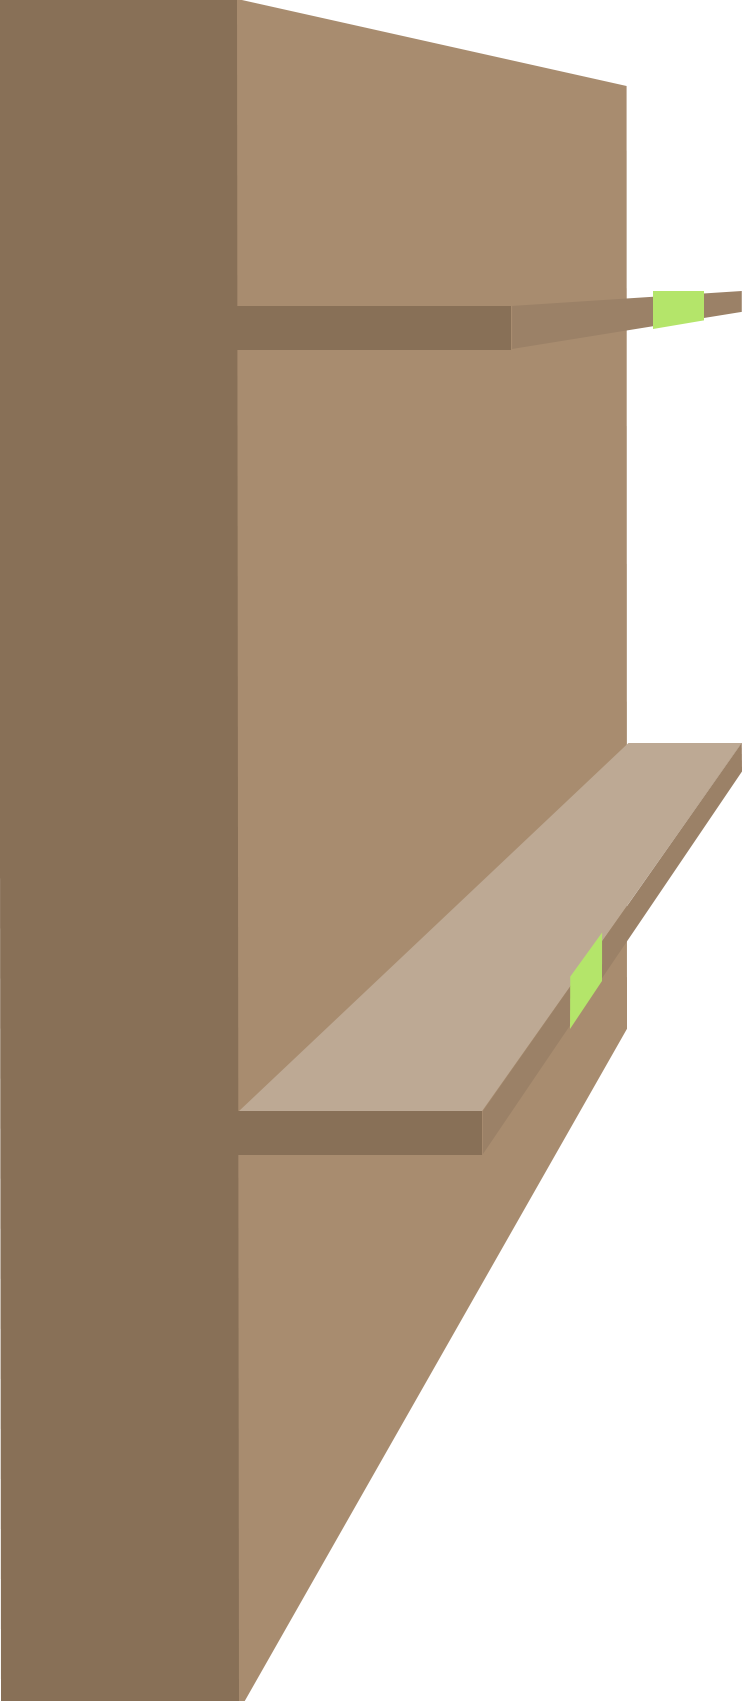
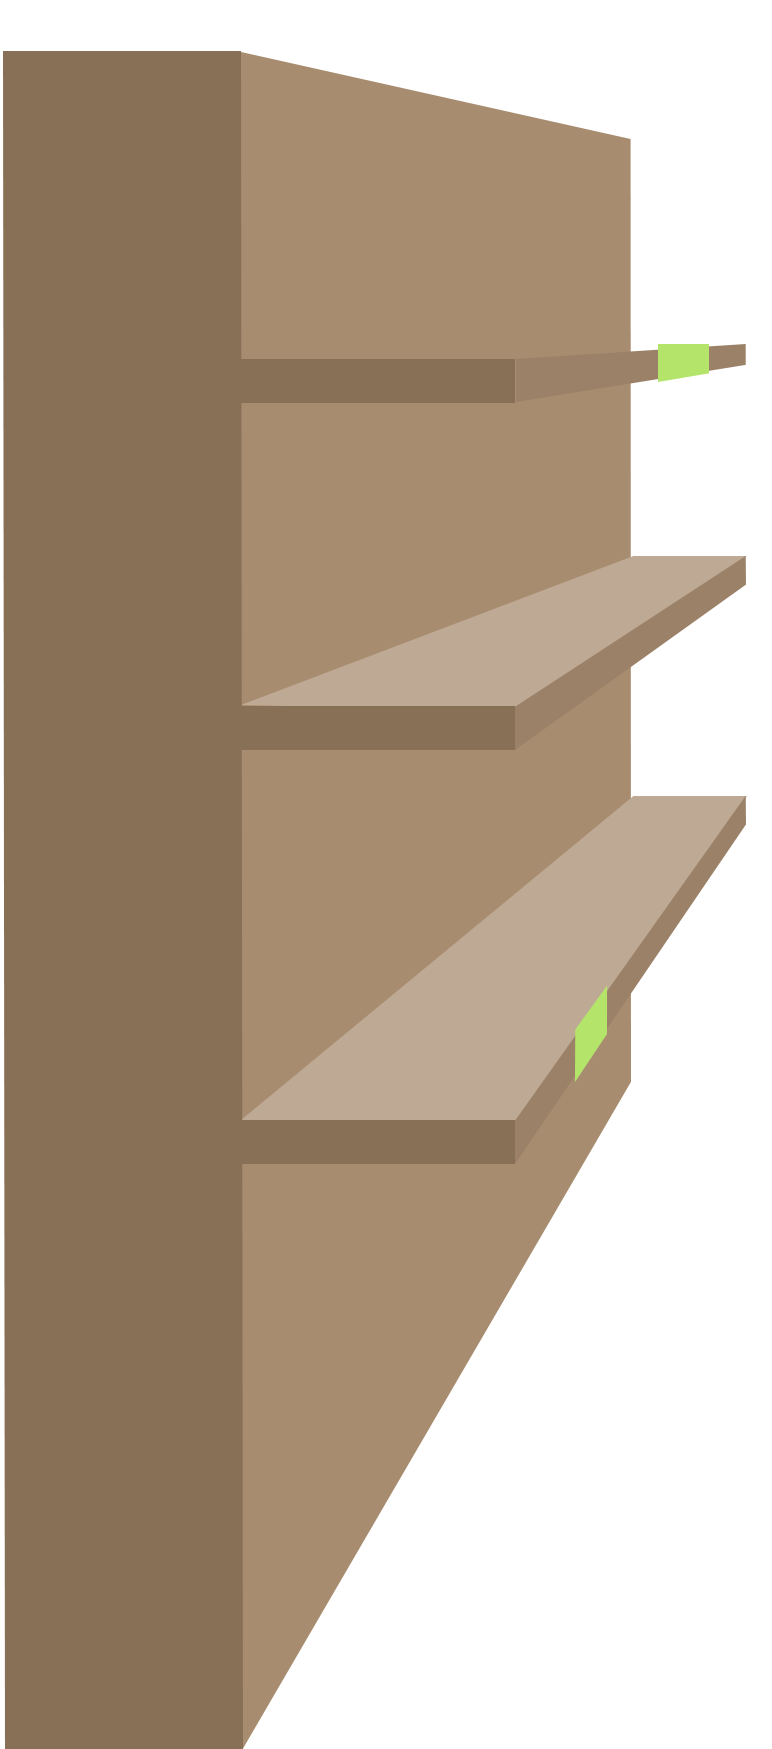
에셋 추가 및 배치 수정

diff --git a/main.js b/main.js
@@ -19,7 +19,7 @@
 
 
   // Shelf/3D config
-  const LEVELS_PER_SIDE = 2;    // left: 2 levels, right: 2 levels (total 4 slots)
+  const LEVELS_PER_SIDE = 3;    // left: 3 levels, right: 3 levels (total 6 slots)
   const SHELF_GAP = 10;          // distance between bays (world units)
   const SHELF_FLOOR_GAP = 80;
   const FOV = 400;              // pseudo perspective focal length
@@ -288,7 +288,7 @@
           if (placement) {
             const baseRect = item.side === 'L' ? placement.left : placement.right;
             if (baseRect) {
-              if (item.level >= 2) return null;
+              if (item.level >= LEVELS_PER_SIDE || BOX_FLOOR_PX[item.level] == null) return null;
               // 엄마 모드와 동일한 원근 스케일을 유지
               const targetSize = ITEM_BASE_SIZE * scale * 2.5;
               const scaleX = baseRect.w / FURNITURE_CANONICAL.width;
@@ -299,7 +299,8 @@
               const desiredX = item.side === 'L'
                 ? baseRect.x + edgePx
                 : baseRect.x + baseRect.w - edgePx - targetSize;
-              const desiredY = floorY - targetSize - floorPx;
+              const topAdjust = (item.level === LEVELS_PER_SIDE - 1) ? BOX_TOP_LEVEL_OFFSET * scaleY : 0;
+              const desiredY = floorY - targetSize - floorPx + topAdjust;
               rect = {
                 x: clamp(desiredX, baseRect.x, baseRect.x + baseRect.w - targetSize),
                 y: clamp(desiredY, baseRect.y, floorY - targetSize),
@@ -335,7 +336,35 @@
         this.loadImage();
       }
       if (this.image && this.imageLoaded) {
-        ctx.drawImage(this.image, rect.x, rect.y, rect.w, rect.h);
+        const naturalW = this.image.naturalWidth || this.image.width || rect.w;
+        const naturalH = this.image.naturalHeight || this.image.height || rect.h;
+        if (naturalW > 0 && naturalH > 0) {
+          const aspect = naturalW / naturalH;
+          let drawW = rect.w;
+          let drawH = rect.h;
+          if (aspect >= 1) {
+            drawW = rect.w;
+            drawH = rect.w / aspect;
+            if (drawH > rect.h) {
+              const s = rect.h / drawH;
+              drawW *= s;
+              drawH *= s;
+            }
+          } else {
+            drawH = rect.h;
+            drawW = rect.h * aspect;
+            if (drawW > rect.w) {
+              const s = rect.w / drawW;
+              drawW *= s;
+              drawH *= s;
+            }
+          }
+          const dx = rect.x + (rect.w - drawW) / 2;
+          const dy = rect.y + (rect.h - drawH) / 2;
+          ctx.drawImage(this.image, dx, dy, drawW, drawH);
+        } else {
+          ctx.drawImage(this.image, rect.x, rect.y, rect.w, rect.h);
+        }
         return;
       }
       // Fallback: draw colored square matching clickable area
@@ -390,7 +419,8 @@
   };
   const BOX_EDGE_OFFSET_RATIO = 57 / FURNITURE_CANONICAL.width;
   const BOX_EDGE_PX = 130;
-  const BOX_FLOOR_PX = [160, 360];
+  const BOX_FLOOR_PX = [160, 260, 360];
+  const BOX_TOP_LEVEL_OFFSET = 24; // canonical px offset to lower top-shelf items
   const CART_IMAGES = {
     center: 'assets/images/cart.png',
     left: 'assets/images/cart_left.png',
@@ -398,9 +428,14 @@
   };
   const PERSON_IMAGES = {
     center: 'assets/images/person_front.png',
-    left: 'assets/images/person_left.png',
-    right: 'assets/images/person_right.png',
+    left: 'assets/images/person_left2.png',
+    right: 'assets/images/person_right2.png',
+    left1: 'assets/images/person_left1.png',
+    left2: 'assets/images/person_left2.png',
+    right1: 'assets/images/person_right1.png',
+    right2: 'assets/images/person_right2.png',
   };
+  const PERSON_FRAME_DELAY = 80;
   const FURNITURE_PROFILES = {
     bookshelf: [
       { y: 0, width: 129, height: 290, edge: 0 },
@@ -616,6 +651,7 @@
   // Game state
   let state = null;
   let cartPoseTimer = null;
+  let personPoseTimers = [];
 
   function initState(modeParam = null) {
     // mode: 'mom' = 엄마의 분노(기존), 'score' = 점수제(메모/타이머)
@@ -709,10 +745,29 @@
     }
   }
 
-  function setCartPose(pose = 'center') {
-    if (!cartImg || !personImg) return;
+  function setPersonImage(poseKey = 'center') {
+    if (!personImg) return;
+    const src = PERSON_IMAGES[poseKey] || PERSON_IMAGES.center;
+    personImg.src = src;
+  }
+
+  function clearPersonPoseTimers() {
+    if (!personPoseTimers.length) return;
+    for (const timer of personPoseTimers) {
+      clearTimeout(timer);
+    }
+    personPoseTimers = [];
+  }
+
+  function setCartPose(pose = 'center', { skipPerson = false } = {}) {
+    if (!cartImg) return;
     cartImg.src = CART_IMAGES[pose] || CART_IMAGES.center;
-    personImg.src = PERSON_IMAGES[pose] || PERSON_IMAGES.center;
+    if (!personImg || skipPerson) return;
+    if (pose === 'center') {
+      clearPersonPoseTimers();
+    }
+    const personPose = pose === 'left' ? 'left2' : pose === 'right' ? 'right2' : 'center';
+    setPersonImage(personPose);
   }
 
   function resetCartPose() {
@@ -723,10 +778,22 @@
     setCartPose('center');
   }
 
+  function animatePersonSide(side) {
+    if (!personImg) return;
+    clearPersonPoseTimers();
+    const frames = side === 'L' ? ['left1', 'left2'] : ['right1', 'right2'];
+    setPersonImage(frames[0]);
+    const timer = setTimeout(() => {
+      setPersonImage(frames[1]);
+    }, PERSON_FRAME_DELAY);
+    personPoseTimers.push(timer);
+  }
+
   function flashCartPose(side) {
     if (!cartImg || !personImg) return;
     const pose = side === 'L' ? 'left' : 'right';
-    setCartPose(pose);
+    setCartPose(pose, { skipPerson: true });
+    animatePersonSide(side);
     if (cartPoseTimer) clearTimeout(cartPoseTimer);
     cartPoseTimer = setTimeout(() => {
       cartPoseTimer = null;
